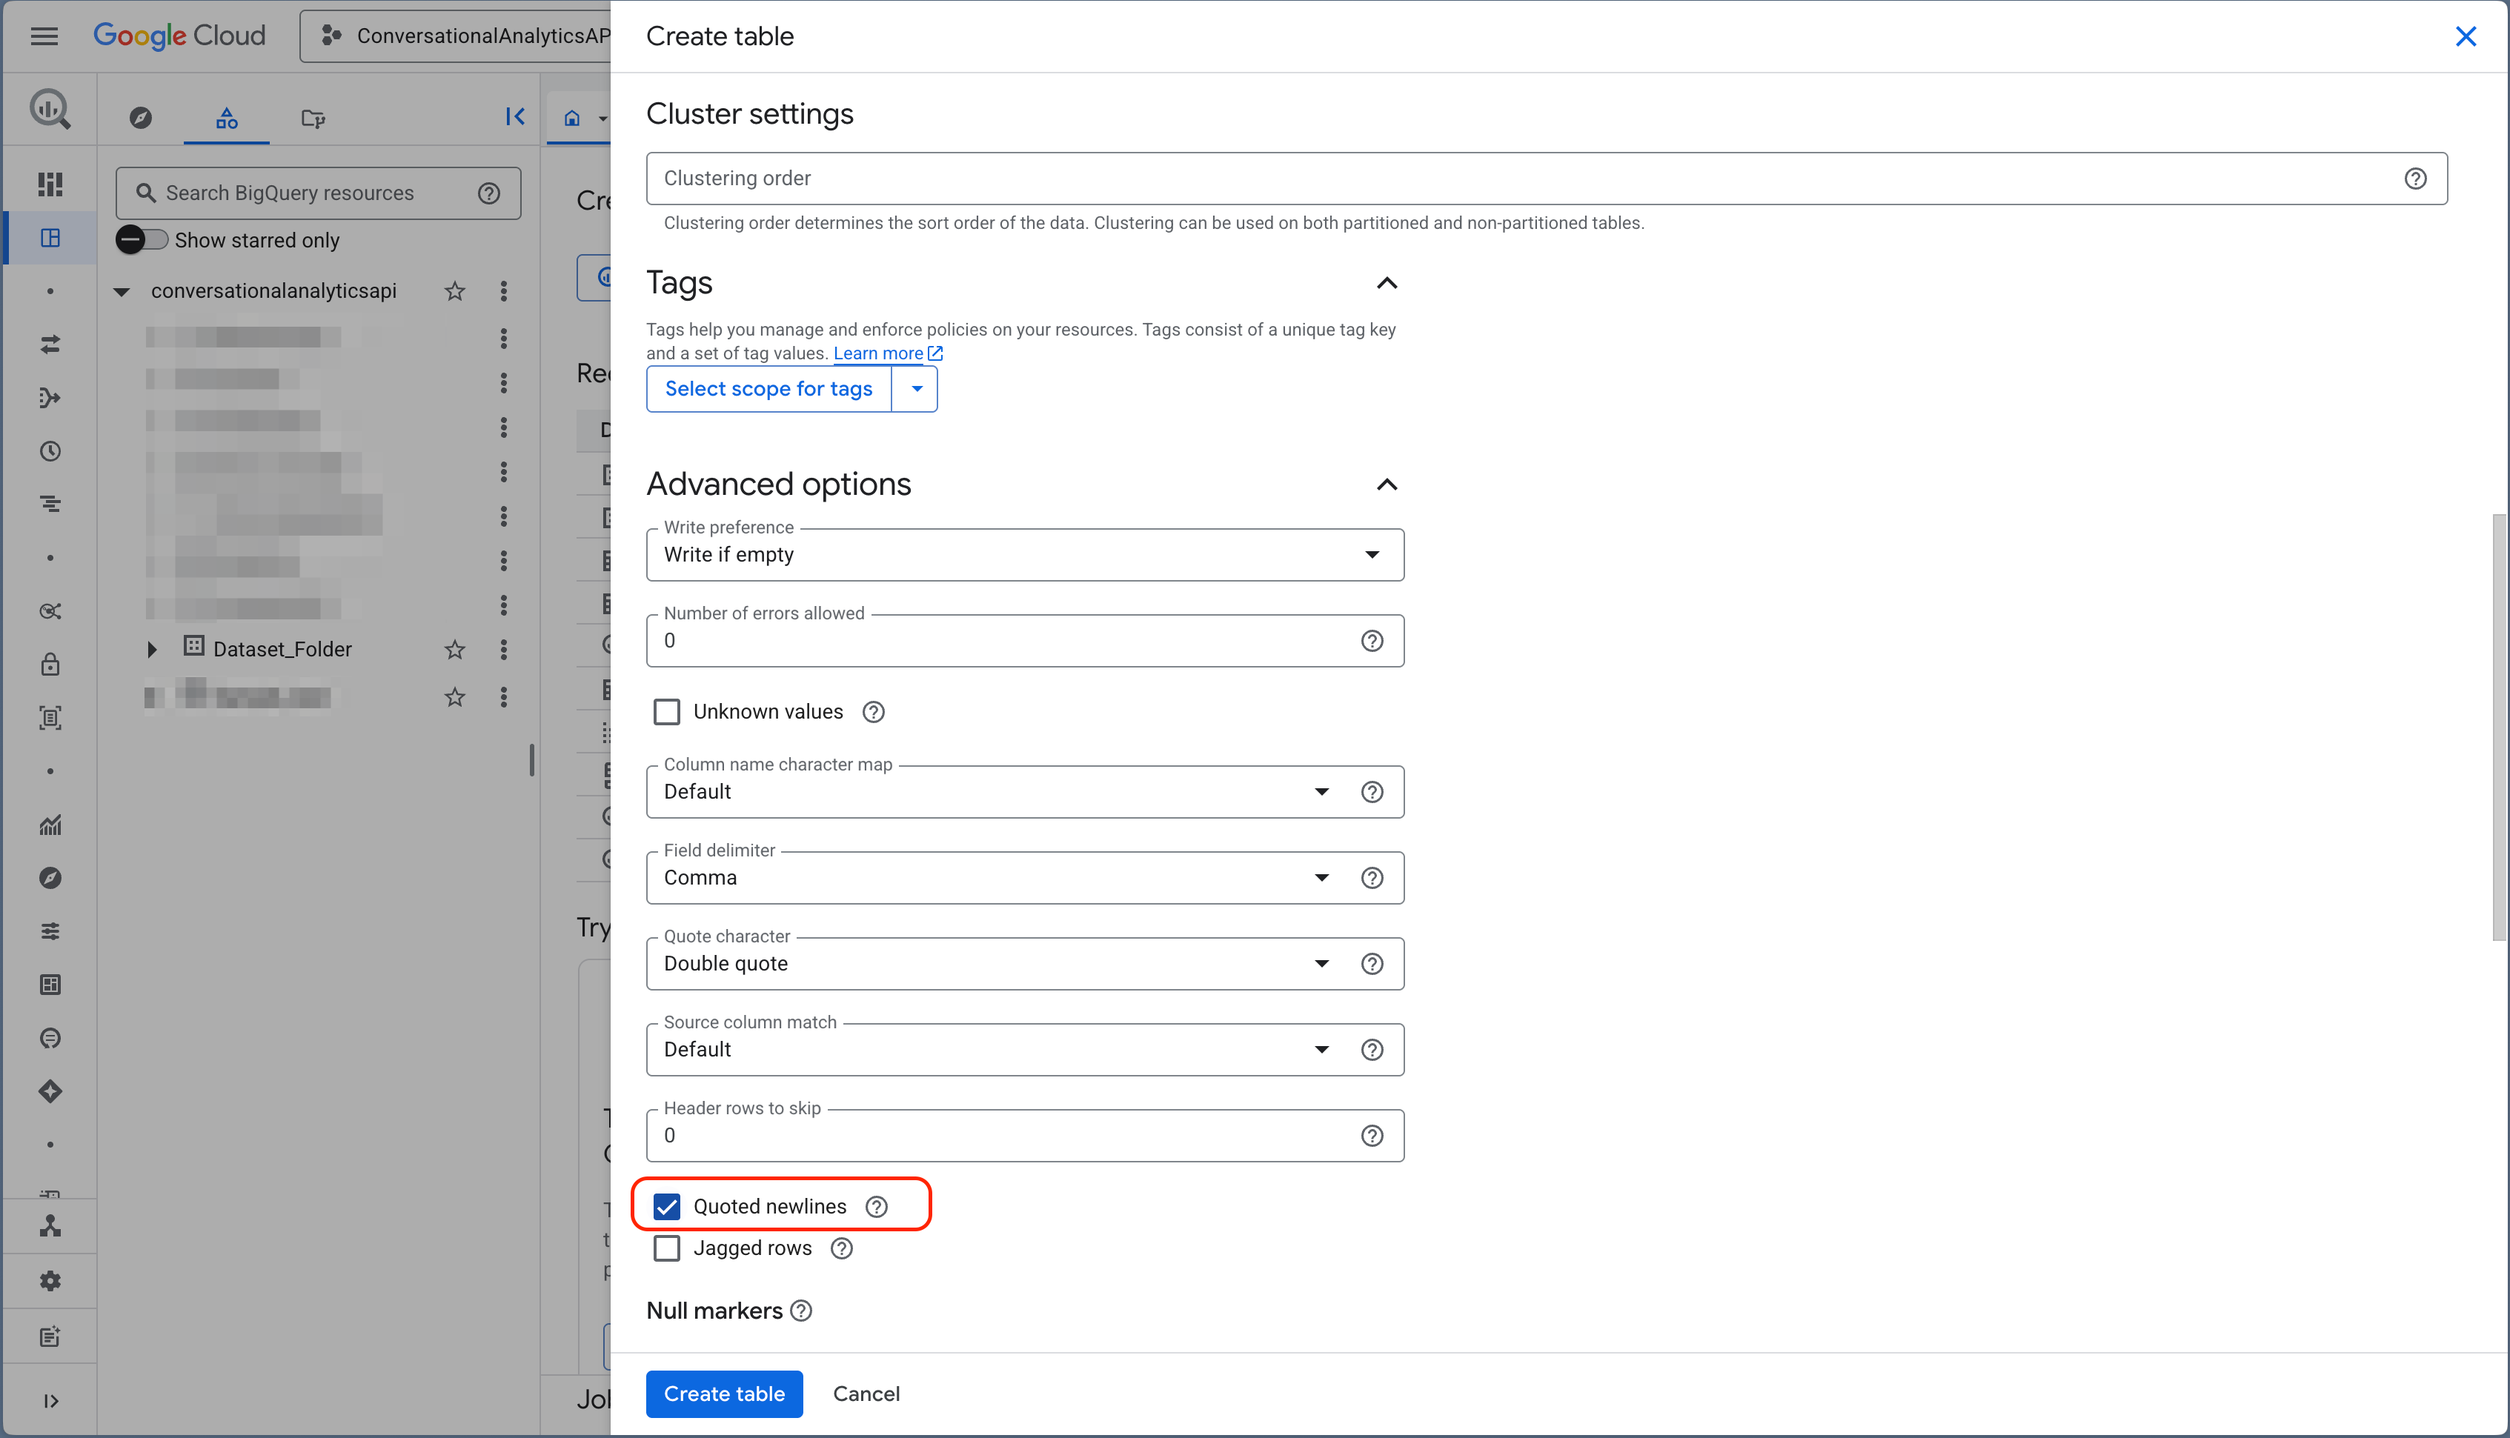
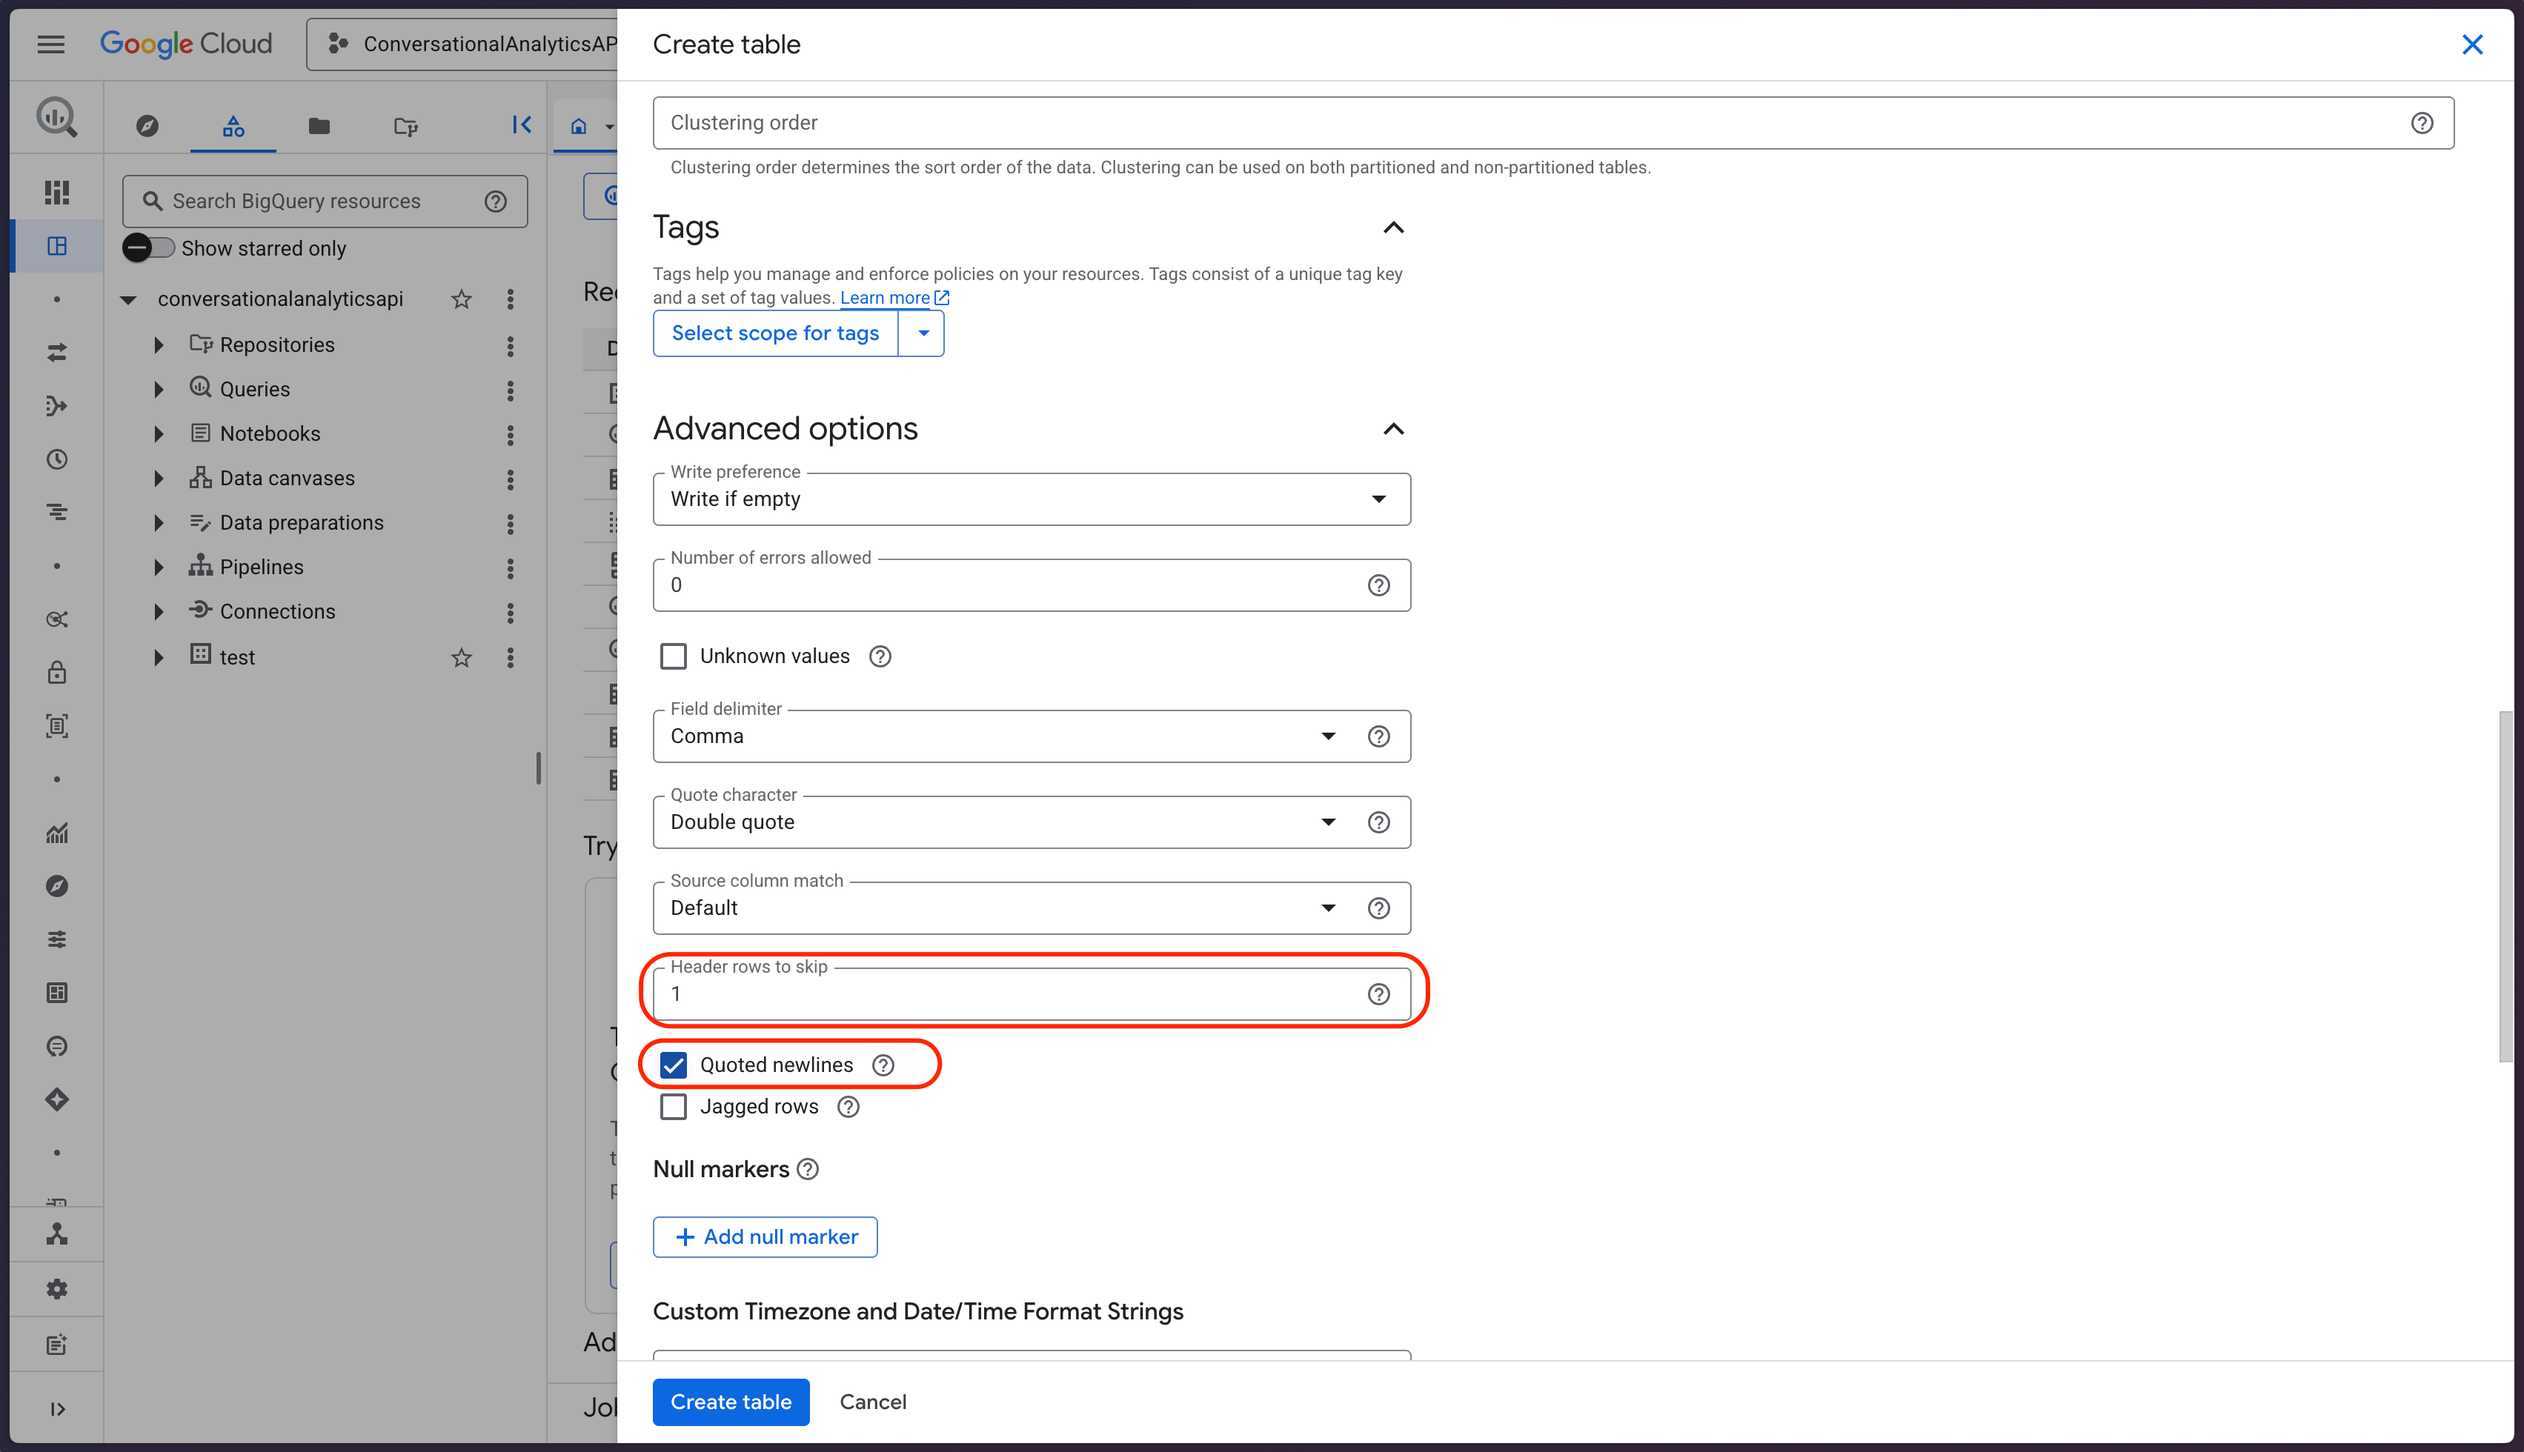
New Documentation Added

Changed region(s): [[0.0, 0.0, 1.0, 1.0], [0.527, 0.4019, 0.558, 0.4328]]

diff --git a/pages/Documentation.py b/pages/Documentation.py
@@ -617,13 +617,26 @@ def main():
             <li style="margin-bottom: 1rem;">In the <strong>File format</strong> field, you don't need to make any manual changes. BigQuery automatically detects the file type based on the uploaded file.</li>
             <li style="margin-bottom: 1rem;">In the <strong>Dataset</strong> field, make sure to select the correct dataset folder name where you want the new table to be stored. Datasets in BigQuery act like folders that organise your tables, so double-check that you've chosen the appropriate one for your project.</li>
             <li style="margin-bottom: 1rem;">In the <strong>Table</strong> field, enter a descriptive and clear name for the table/dataset you're creating. This will be the name used to reference the data inside your selected dataset.</li>
-            <li style="margin-bottom: 1rem;">Under the <strong>Schema</strong> section, enable the <strong>Auto detect</strong> option. This allows BigQuery to automatically read your file and generate the appropriate column names and data types based on the contents of your CSV file.</li>
-            <li style="margin-bottom: 1rem;">After confirming all the settings are correct, select the final option shown in the image below to complete the process and create your table in BigQuery.</li>
         </ol>
     </div>
     """, unsafe_allow_html=True)
     
-    # Display screenshot ss_4_b after point 10
+    # Display screenshot ss_4_a_a after point 7
+    try:
+        st.image("assets/Documentation Assests/ss_4_a_a.png", width=750, output_format="PNG")
+    except:
+        st.image("assets/Documentation Assests/ss_4_a_a.png", width=750)
+    
+    st.markdown("""
+    <div style="color: #374151; line-height: 1.9; font-size: 1.05rem; margin-top: 1.5rem;">
+        <ol start="8" style="margin: 1rem 0; padding-left: 2rem;">
+            <li style="margin-bottom: 1rem;">Under the <strong>Schema</strong> section, locate and switch the toggle labeled <strong>"Edit as text"</strong>. This will open a text field where you need to paste the data schema in JSON format. To get the schema file, download it along with the cleaned CSV file from this tool. The schema file will be named in the following format: <strong>"filename_bq_schema.json"</strong> (where "filename" is the name of your uploaded file). Open this JSON file, copy its entire contents, and paste it into the text field area in BigQuery.</li>
+            <li style="margin-bottom: 1rem;">Once you have followed these steps correctly, you just need to follow the last 2 options shown in the image below:</li>
+        </ol>
+    </div>
+    """, unsafe_allow_html=True)
+    
+    # Display screenshot ss_4_b after point 9
     try:
         st.image("assets/Documentation Assests/ss_4_b.png", width=750, output_format="PNG")
     except:
@@ -631,12 +644,118 @@ def main():
     
     st.markdown("""
     <div style="color: #374151; line-height: 1.9; font-size: 1.05rem; margin-top: 1.5rem;">
-        <ol start="11" style="margin: 1rem 0; padding-left: 2rem;">
-            <li style="margin-bottom: 1rem;">Make sure you always select the <strong>Quoted newlines</strong>, while uploading the data. This is available in the available options as shown in the image</li>
-            <li style="margin-bottom: 1rem;">Once all these options are selected correctly, you can then <strong>Create table</strong>.</li>
+        <ol start="10" style="margin: 1rem 0; padding-left: 2rem;">
+            <li style="margin-bottom: 1rem;">Under the <strong>Advanced options</strong> section, you will find an option labeled <strong>"Headers to Skip"</strong>. By default, this is set to 0. Change this value to <strong>1</strong>. This tells BigQuery to skip the column headers (the first row) while parsing the data, ensuring that your headers are not imported as data rows.</li>
+            <li style="margin-bottom: 1rem;">Make sure you always select the <strong>Quoted newlines</strong> option while uploading the data. This is available in the available options as shown in the image above.</li>
+            <li style="margin-bottom: 1rem;">Once all these options are selected correctly, you can then click <strong>Create table</strong>.</li>
         </ol>
     </div>
     """, unsafe_allow_html=True)
+    
+    # Step 5
+    st.markdown("""
+    <div style="margin: 3rem 0 2rem 0;">
+        <h3 style="color: #111827; font-size: 1.75rem; font-weight: 600; margin: 0 0 1.5rem 0; display: flex; align-items: center;">
+            <span style="background: #177091; color: #ffffff; width: 40px; height: 40px; border-radius: 50%; text-align: center; line-height: 40px; font-weight: 600; font-size: 1.1rem; margin-right: 1rem; display: inline-block;">5</span>
+            Appending Data in BigQuery
+        </h3>
+        <div style="color: #374151; line-height: 1.9; font-size: 1.05rem;">
+            <p style="margin-bottom: 1.5rem;">If you are appending data for the first time, you need to run the following SQL query in BigQuery to combine your split tables into a single main table.</p>
+        </div>
+    </div>
+    """, unsafe_allow_html=True)
+    
+    st.markdown('<p style="margin-bottom: 0.75rem; font-weight: 600; color: #111827; font-size: 1.05rem;">Query to run in BigQuery:</p>', unsafe_allow_html=True)
+    
+    # Display SQL query in a code block
+    sql_query = """CREATE OR REPLACE TABLE `folder.main` AS
+
+SELECT * FROM `folder.split_1`
+
+UNION ALL
+
+SELECT * FROM `folder.split_2`;"""
+    
+    st.code(sql_query, language='sql')
+    
+    # Explanation sections - matching rest of documentation style
+    st.markdown("""
+    <div style="color: #374151; line-height: 1.9; font-size: 1.05rem; margin-top: 1.5rem;">
+        <h4 style="color: #111827; font-size: 1.25rem; font-weight: 600; margin: 1.5rem 0 1rem 0;">Explanation of Placeholders</h4>
+    </div>
+    """, unsafe_allow_html=True)
+    
+    st.markdown("""
+    <div style="color: #374151; line-height: 1.9; font-size: 1.05rem;">
+        <ul style="margin: 1rem 0; padding-left: 2rem;">
+            <li style="margin-bottom: 1rem;"><strong>folder</strong> - The name of your BigQuery dataset. This is where all your tables are stored.</li>
+            <li style="margin-bottom: 1rem;"><strong>main</strong> - The name of the table you are creating. This becomes your combined full dataset that contains all the appended data.</li>
+            <li style="margin-bottom: 1rem;"><strong>split_1</strong> - The name of the first table you want to include in the combined dataset.</li>
+            <li style="margin-bottom: 1rem;"><strong>split_2</strong> - The name of the second table you want to append directly after split_1.</li>
+        </ul>
+    </div>
+    """, unsafe_allow_html=True)
+    
+    st.markdown("""
+    <div style="color: #374151; line-height: 1.9; font-size: 1.05rem; margin-top: 1.5rem;">
+        <h4 style="color: #111827; font-size: 1.25rem; font-weight: 600; margin: 1.5rem 0 1rem 0;">What the Query Does</h4>
+    </div>
+    """, unsafe_allow_html=True)
+    
+    st.markdown("""
+    <div style="color: #374151; line-height: 1.9; font-size: 1.05rem;">
+        <ol style="margin: 1rem 0; padding-left: 2rem;">
+            <li style="margin-bottom: 1rem;"><strong>CREATE OR REPLACE TABLE `folder.main`</strong> - Creates a new table called "main" in your dataset. If a table with that name already exists, it completely replaces it with the new data.</li>
+            <li style="margin-bottom: 1rem;"><strong>SELECT * FROM `folder.split_1`</strong> - Takes all columns and rows from the first table (split_1).</li>
+            <li style="margin-bottom: 1rem;"><strong>UNION ALL SELECT * FROM `folder.split_2`</strong> - Adds all rows from the second table (split_2) directly underneath the rows from split_1, without removing any duplicates.</li>
+        </ol>
+    </div>
+    """, unsafe_allow_html=True)
+    
+    # Why UNION ALL is Used - with translucent blue background
+    st.markdown("""
+    <div style="background: rgba(23, 112, 145, 0.1); border-left: 4px solid #177091; border-radius: 4px; padding: 1rem; margin: 1.5rem 0;">
+        <p style="margin: 0; color: #374151; line-height: 1.9; font-size: 1.05rem;"><strong>Why UNION ALL is Used:</strong> We use UNION ALL because we want to append the data exactly as it is, without removing duplicates or merging rows. This keeps all rows from both split_1 and split_2 in the final combined table.</p>
+    </div>
+    """, unsafe_allow_html=True)
+    
+    # Step-by-step instructions
+    st.markdown("""
+    <div style="color: #374151; line-height: 1.9; font-size: 1.05rem; margin: 1.5rem 0;">
+        <ol style="margin: 1rem 0; padding-left: 2rem;">
+            <li style="margin-bottom: 1rem;">Select either your dataset folder or any table inside it. A pane will open where you can see the plus sign (+) on the top as shown in the image below:</li>
+        </ol>
+    </div>
+    """, unsafe_allow_html=True)
+    
+    # Display screenshot ss_5_a
+    try:
+        st.image("assets/Documentation Assests/ss_5_a.png", width=750, output_format="PNG")
+    except:
+        st.image("assets/Documentation Assests/ss_5_a.png", width=750)
+    
+    st.markdown("""
+    <div style="color: #374151; line-height: 1.9; font-size: 1.05rem; margin-top: 1.5rem;">
+        <ol start="2" style="margin: 1rem 0; padding-left: 2rem;">
+            <li style="margin-bottom: 1rem;">Once you select the plus (+) option, the SQL editor will open. See the image below:</li>
+        </ol>
+    </div>
+    """, unsafe_allow_html=True)
+    
+    # Display screenshot ss_5_b
+    try:
+        st.image("assets/Documentation Assests/ss_5_b.png", width=750, output_format="PNG")
+    except:
+        st.image("assets/Documentation Assests/ss_5_b.png", width=750)
+    
+    st.markdown("""
+    <div style="color: #374151; line-height: 1.9; font-size: 1.05rem; margin-top: 1.5rem;">
+        <ol start="3" style="margin: 1rem 0; padding-left: 2rem;">
+            <li style="margin-bottom: 1rem;">Once you paste the query inside the editor, you should be able to run the query by clicking on the <strong>Run</strong> button.</li>
+        </ol>
+    </div>
+    """, unsafe_allow_html=True)
+    
     
     # Download all images button at the end
     st.markdown("---")
@@ -651,7 +770,10 @@ def main():
             "assets/Documentation Assests/ss_2.png",
             "assets/Documentation Assests/ss_3.png",
             "assets/Documentation Assests/ss_4_a.png",
-            "assets/Documentation Assests/ss_4_b.png"
+            "assets/Documentation Assests/ss_4_a_a.png",
+            "assets/Documentation Assests/ss_4_b.png",
+            "assets/Documentation Assests/ss_5_a.png",
+            "assets/Documentation Assests/ss_5_b.png"
         ]
         
         with zipfile.ZipFile(zip_buffer, 'w', zipfile.ZIP_DEFLATED) as zip_file:
